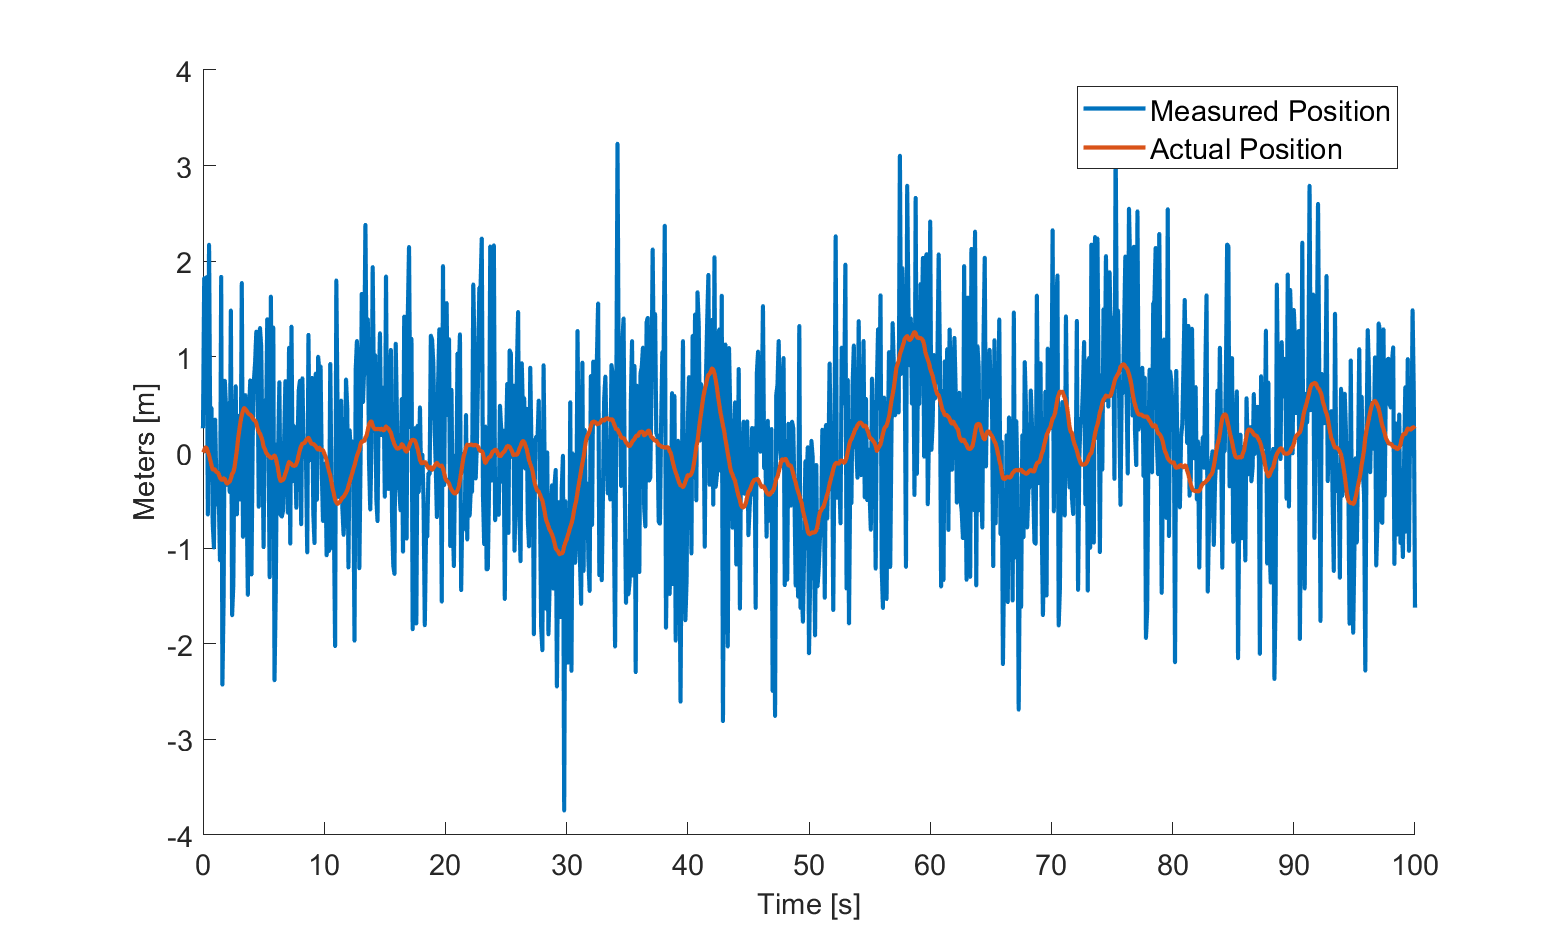
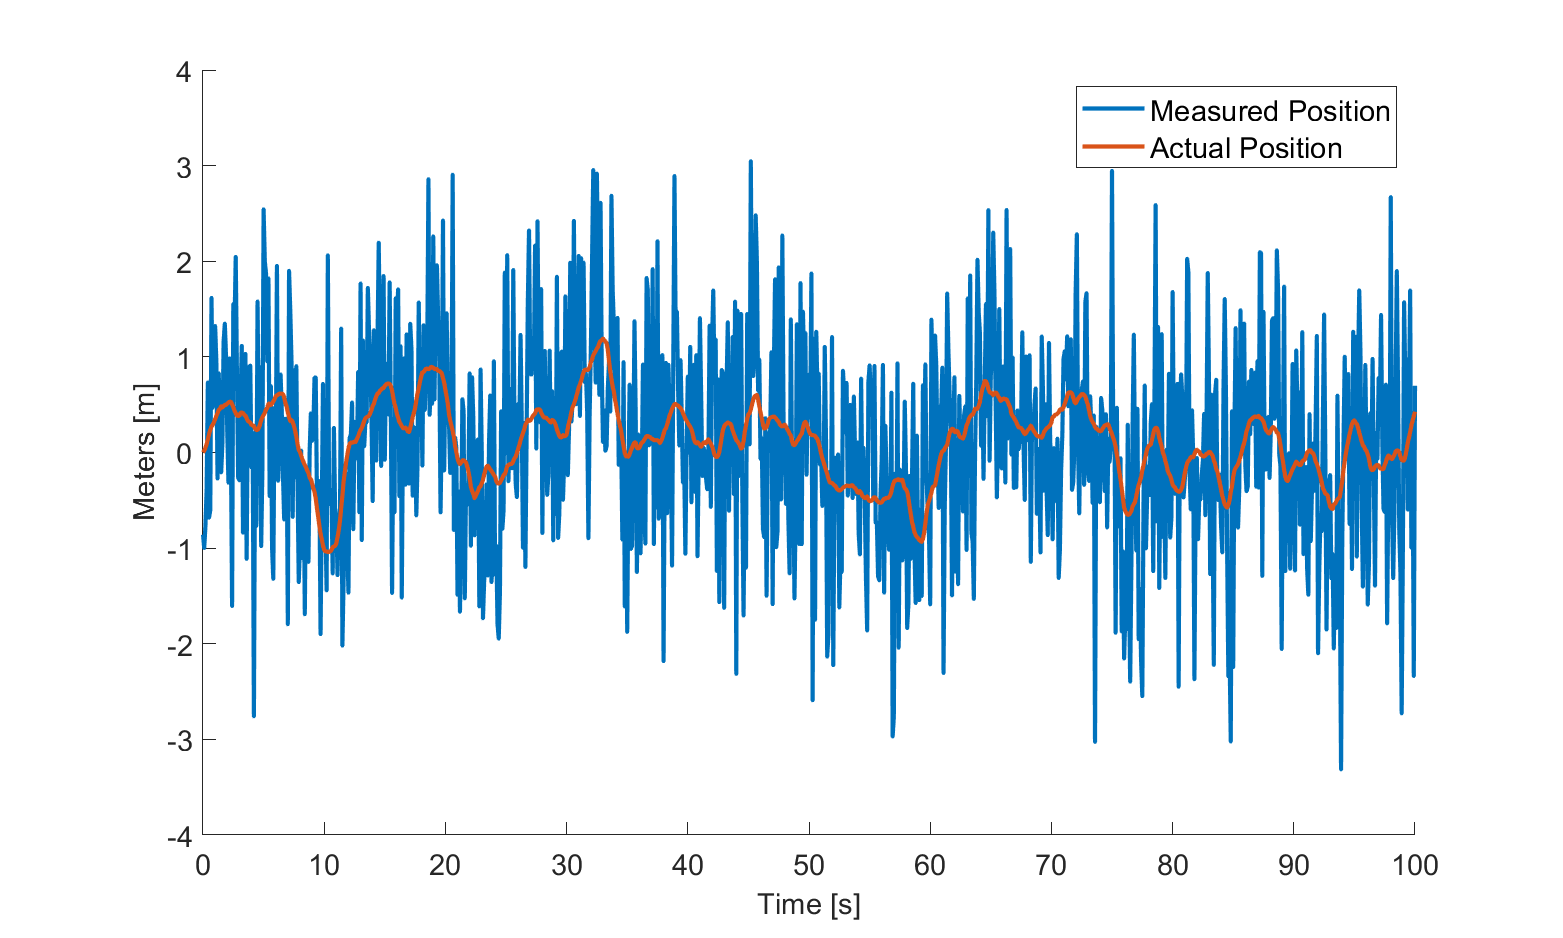
Working through Part C

Changed region(s): [[0.1228, 0.1546, 0.9213, 0.8657]]

diff --git a/Q1.m b/Q1.m
@@ -15,7 +15,8 @@ plotFontSize = 14;
 
 % State Space System
 A_CL = [0 1;-1 -1.4]; % Closed-Loop A-Matrix
-A_D = expm(A_CL); % X = e^(At)
+
+A_d = expm(A_CL'); % X = e^(At)
 B = [0;1];
 C = [1 0];
 
@@ -46,7 +47,7 @@ for i = 1:length(tSequence)
 end
 
 % Plotting Simulation
-simFig = figure('Position',[500 500 1000 600],'Name','Continuous Model simulation');
+simFig = figure('Position',[500 250 1000 600],'Name','Continuous Model simulation');
 hold on
 plot(tSequence,Y(2:end),'LineWidth',2)
 plot(tSequence,X(1,2:end),'LineWidth',2)
@@ -60,3 +61,49 @@ saveas(simFig,'Q1_simulation.png')
 Q = mean(Q);
 Q_d = B*Q*B'*dt;
 R_d = mean(R);
+
+%% Begin Problem 1 Part C
+
+% Pre-allocating for speed
+X_hat = zeros(2,length(tSequence));
+P = eye(2);
+P_minus = zeros(2,2,length(tSequence)-1);
+P_plus = zeros(2,2,length(tSequence)-1);
+L_k = zeros(2,length(tSequence)-1);
+
+% Beginning Kalman Filter Simulation
+for i = 1:length(tSequence)-1
+
+    % Time Update
+    X_hat(:,i+1) = A_d*X_hat(:,i);
+    P_minus(:,:,i+1) = A_d*P_plus(:,:,i)*A_d' + Q_d;
+
+    % Measurement Update
+    L_k(:,i) = P_minus(:,:,i+1)*C'*(C*P_minus(:,:,i+1)*C' + R_d)^-1;
+    P_plus(:,:,i+1)  = (eye(2) - L_k(:,i)*C)*P_minus(:,:,i+1);
+    X_hat(:,i+1) = X_hat(:,i+1) + L_k(:,i)*(Y(i) - C*X_hat(:,i+1));
+
+end
+
+% Plotting Kalman Filter
+KFFig = figure('Position',[500 250 1000 600],'Name','Continuous Model simulation');
+hold on
+plot(tSequence,X_hat(1,:),'LineWidth',2)
+plot(tSequence,X(1,2:end),'LineWidth',2)
+legend('Filtered Position','Actual Position')
+ylabel('Meters [m]')
+% ylim([-4 4])
+xlabel('Time [s]')
+fontsize(KFFig,plotFontSize,"points")
+saveas(KFFig,'Q1_filter.png')
+
+gainFig = figure('Position',[500 250 1000 600],'Name','Continuous Model simulation');
+hold on
+plot(tSequence(2:end),L_k(1,:),'LineWidth',2)
+plot(tSequence(2:end),L_k(2,:),'LineWidth',2)
+legend('Gain 1','Gain 2')
+ylabel('Gain Values')
+% ylim([-4 4])
+xlabel('Time [s]')
+fontsize(gainFig,plotFontSize,"points")
+saveas(gainFig,'Q1_gain.png')

diff --git a/hw3.tex b/hw3.tex
@@ -72,14 +72,14 @@
                     0 & 0   \\
                     0 & 0.4 \\
                 \end{bmatrix}. \]
-            $R_d$ is similar to $Q$ but instead of the process noise, it is the variance of the sensor noise. We can approximate $R_d$ as \[R_d \approx 1 \]
+            $R_d$ is similar to $Q$ but instead of the process noise, it is the variance of the sensor noise. We can approximate $R_d$ as \[R_d \approx 1. \]
         }
         \part{Calculate the steady state Kalman gain for the system. This can be done in one of many ways: iterate the Kalman filter unit it converges, $dlqe.m$, $dare.m$, $kalman.m$, $dlqr.m$ ($+$ predictor to current estimator trick), etc.
             What is the steady state covariance of the estimates after the time update, $P^{(-)}$, as well as after the measurement update,$P^{(+)}$? Where are the poles of the estimator?}
 
-            \solution{%
-            
-            }
+        \solution{%
+
+        }
 
         \part{Now use the steady state Kalman filter to generate an estimate $\big(\hat{x}\;\text{and}\;\hat{\dot{x}}\big)$ of the 2 states over time. Calculate the norm of the standard deviation of the errors of each state. \[N = \sqrt{\big(std\big(\dot{x} - \hat{\dot{x}}\big)\big)^2 + \left(std\big(x - \hat{x}\big)\right)^2} \]}
 
